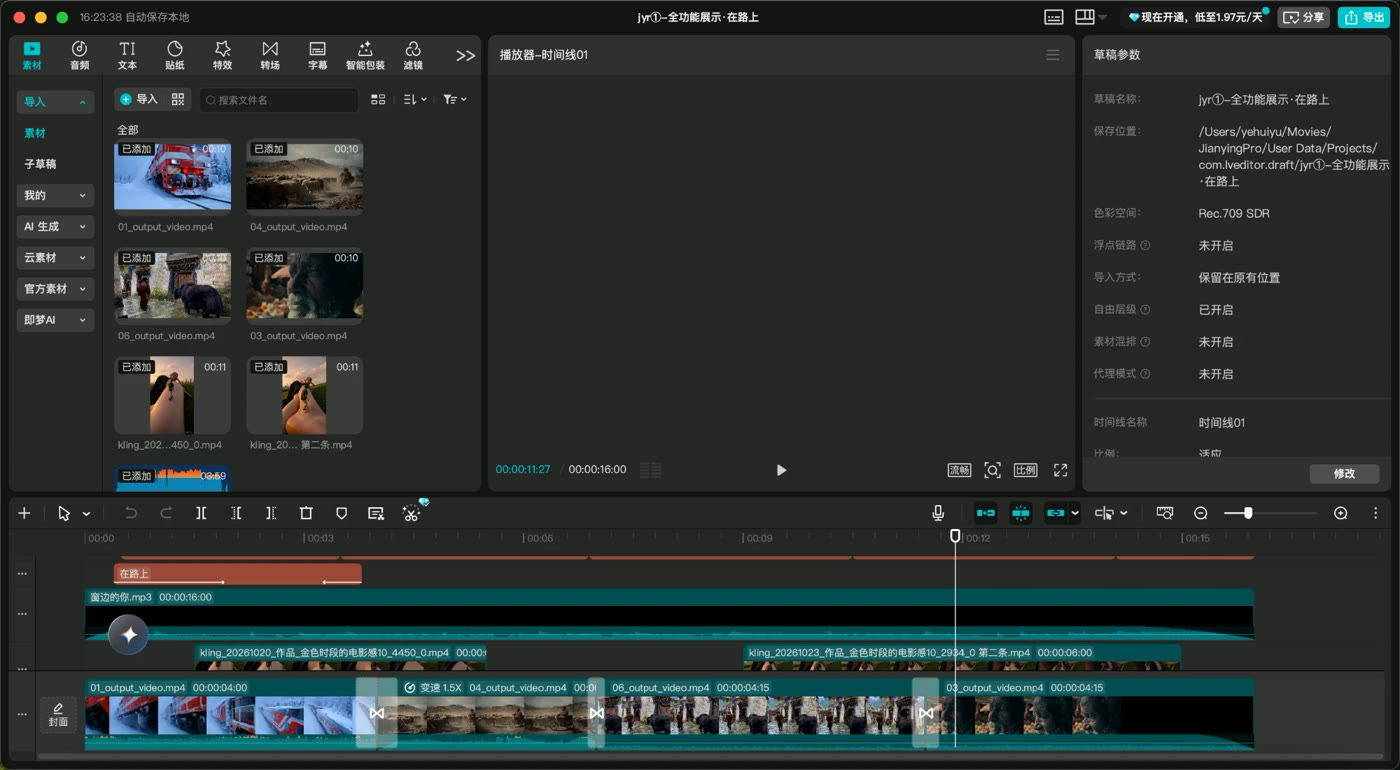
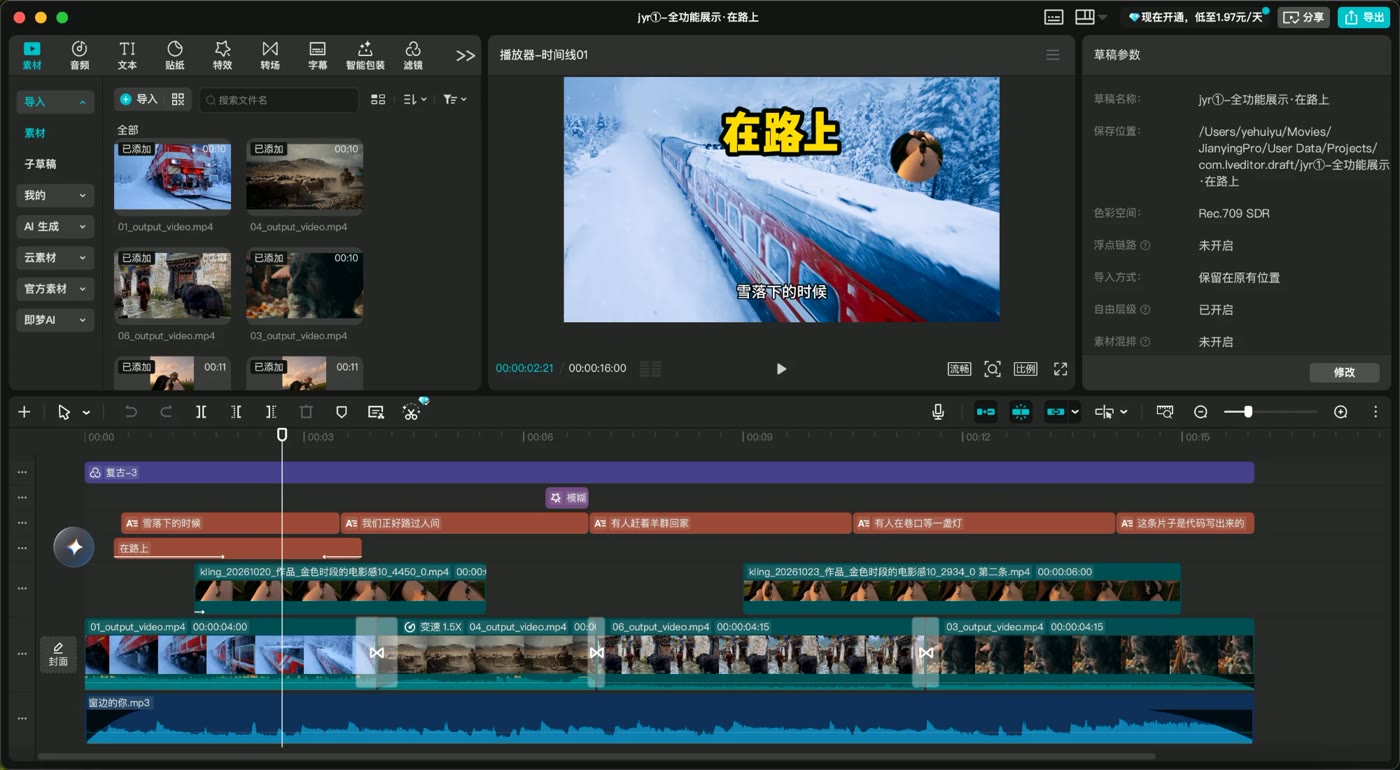
README: readable captions; new timeline screenshot

diff --git a/README.en.md b/README.en.md
@@ -10,7 +10,7 @@ Transitions, masks, keyframes, subtitles, beat-sync, talking-head rough cuts —
 
 <img src="docs/media/hero.gif" width="640" alt="A draft generated from a JSON plan, rendered and exported by JianYing itself">
 
-<sub>A JSON plan became a draft, which <b>JianYing 11.7 opened and exported itself</b>.<br>The small circle at the top right is a deliberate picture-in-picture (circle mask + zoom-in) to show the feature, not a glitch.</sub>
+<p>A JSON plan became a draft, which <b>JianYing 11.7 opened and exported itself</b>.<br>The small circle at the top right is a deliberate picture-in-picture (circle mask + zoom-in) to show the feature, not a glitch.</p>
 
 </div>
 
